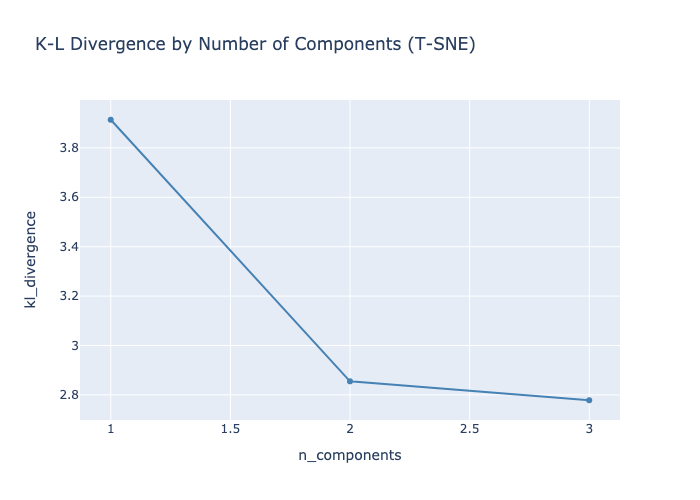
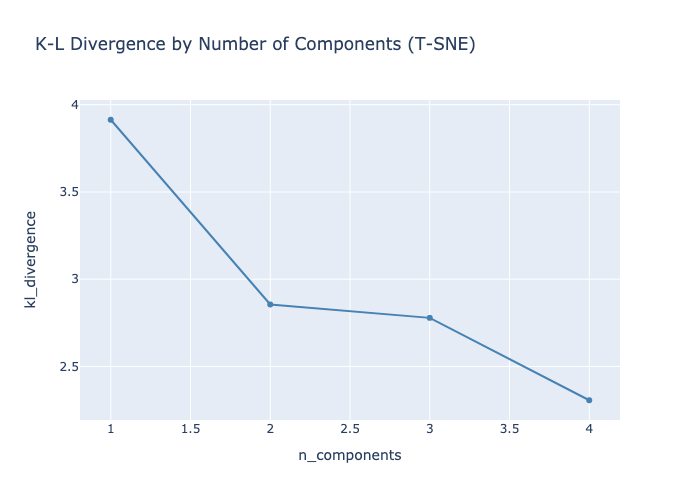
Test tuner

diff --git a/test/reduction/tsne_tuner_test.py b/test/reduction/tsne_tuner_test.py
@@ -2,31 +2,28 @@
 
 
 
-from app.reduction.pca_tuner import PCATuner
+from app.reduction.tsne_tuner import TSNETuner
 from conftest import N_FEATURES
 
-def test_pca_tuner(ds):
+def test_tsne_tuner(ds):
 
-    tuner = PCATuner(df=ds.df, label_cols=ds.label_cols)
+    tuner = TSNETuner(df=ds.df, label_cols=ds.label_cols)
 
     assert "perform" in dir(tuner)
-    assert "plot_explained_variance" in dir(tuner)
-    assert "plot_scree" in dir(tuner)
+    assert "plot_kl_divergence" in dir(tuner)
 
 
-def test_pca_tuner_performance(ds):
+def test_tsne_tuner_performance(ds):
 
-    max_components = 10
+    max_components = 3 # tsne gets slow after 4!
 
-    tuner = PCATuner(df=ds.df, label_cols=ds.label_cols, max_components=max_components)
+    tuner = TSNETuner(df=ds.df, label_cols=ds.label_cols, max_components=max_components)
     assert tuner.max_components == max_components
     assert len(tuner.feature_names) == N_FEATURES
 
     tuner.perform()
-
-    assert tuner.results_df.columns.tolist() == ["n_components", "explained_variance", "eigenvals"]
-    assert tuner.results_df["n_components"].tolist() == [1, 2, 3, 4, 5, 6, 7, 8, 9, 10]
-    assert tuner.results_df["explained_variance"].min() > 0
-    assert tuner.results_df["explained_variance"].max() <= 1
-
-#
+    assert tuner.results_df.columns.tolist() == ["n_components", "kl_divergence"]
+    assert tuner.results_df["n_components"].tolist() == [1, 2, 3]
+    kl =  tuner.results_df["kl_divergence"].tolist()
+    assert min(kl) > 0
+    assert kl == sorted(kl, reverse=True)

diff --git a/app/reduction/tsne_tuner.py b/app/reduction/tsne_tuner.py
@@ -12,7 +12,7 @@ MAX_COMPONENTS = os.getenv("MAX_COMPONENTS")
 
 
 class TSNETuner():
-    """FYI: T-SNE gets slow when n_components > 4
+    """FYI: T-SNE gets slow when n_components >= 4
 
     K-L divergence measures difference between two distributions, where the
         value is 0 when the two distributions are equal.
